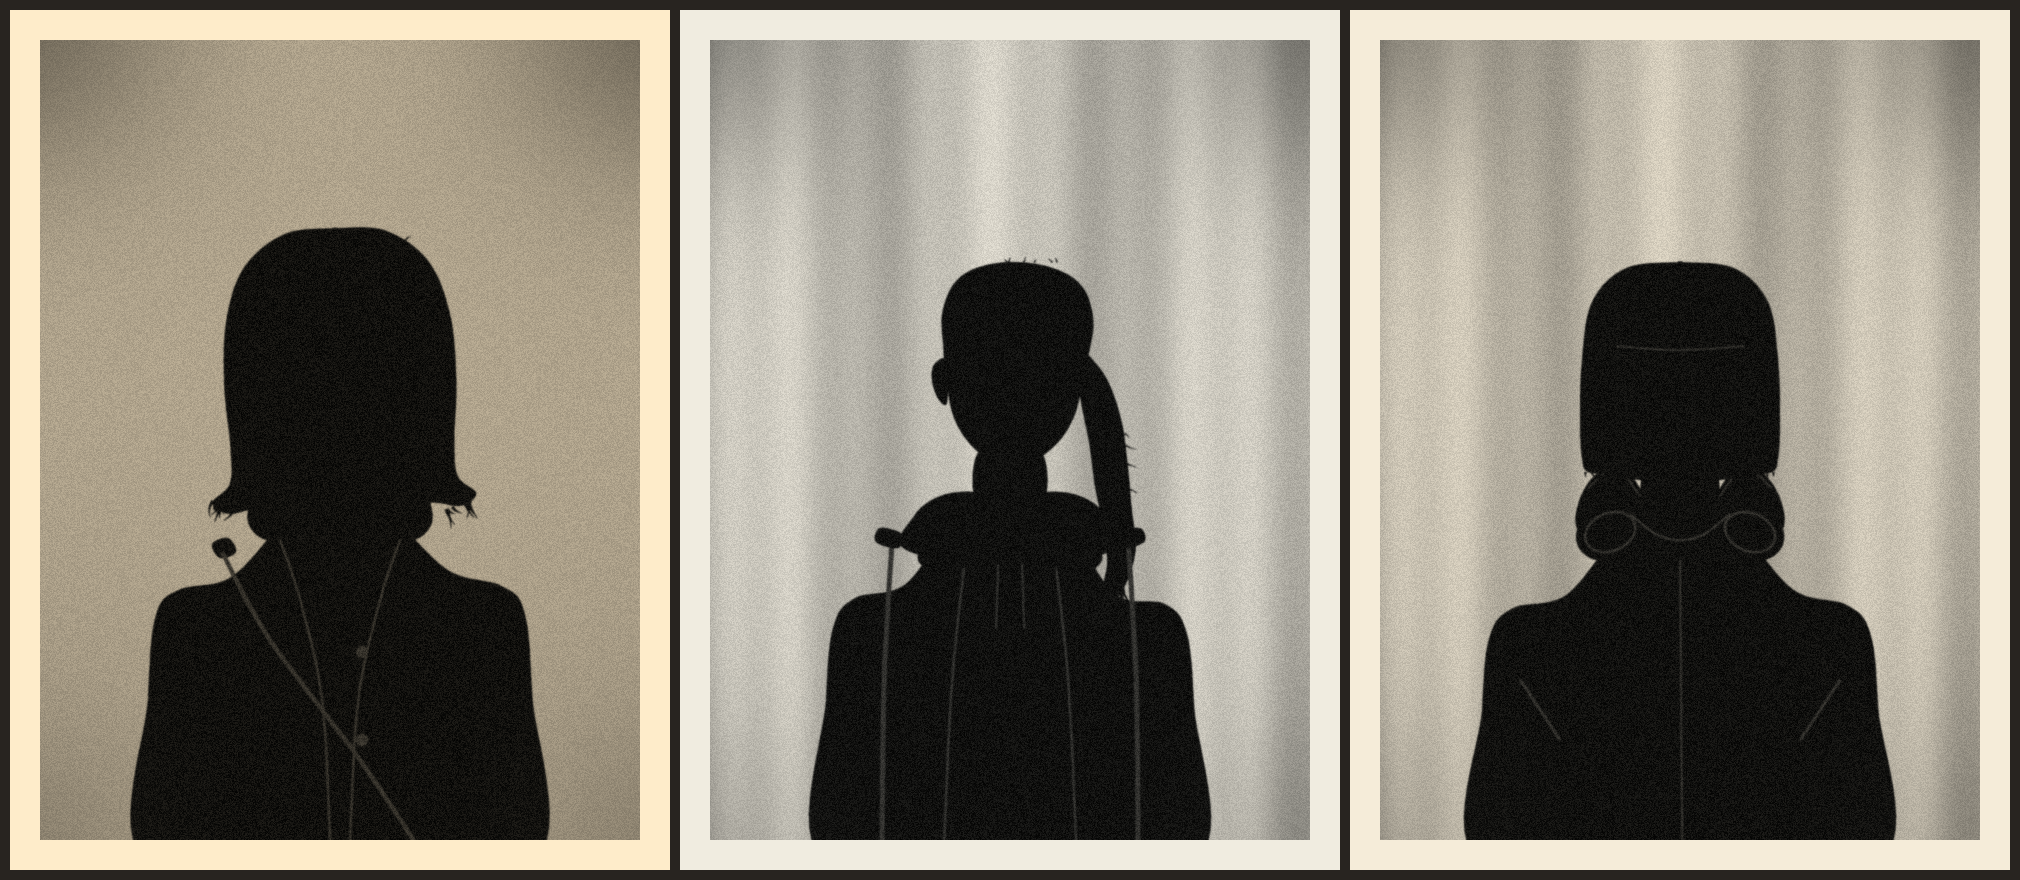
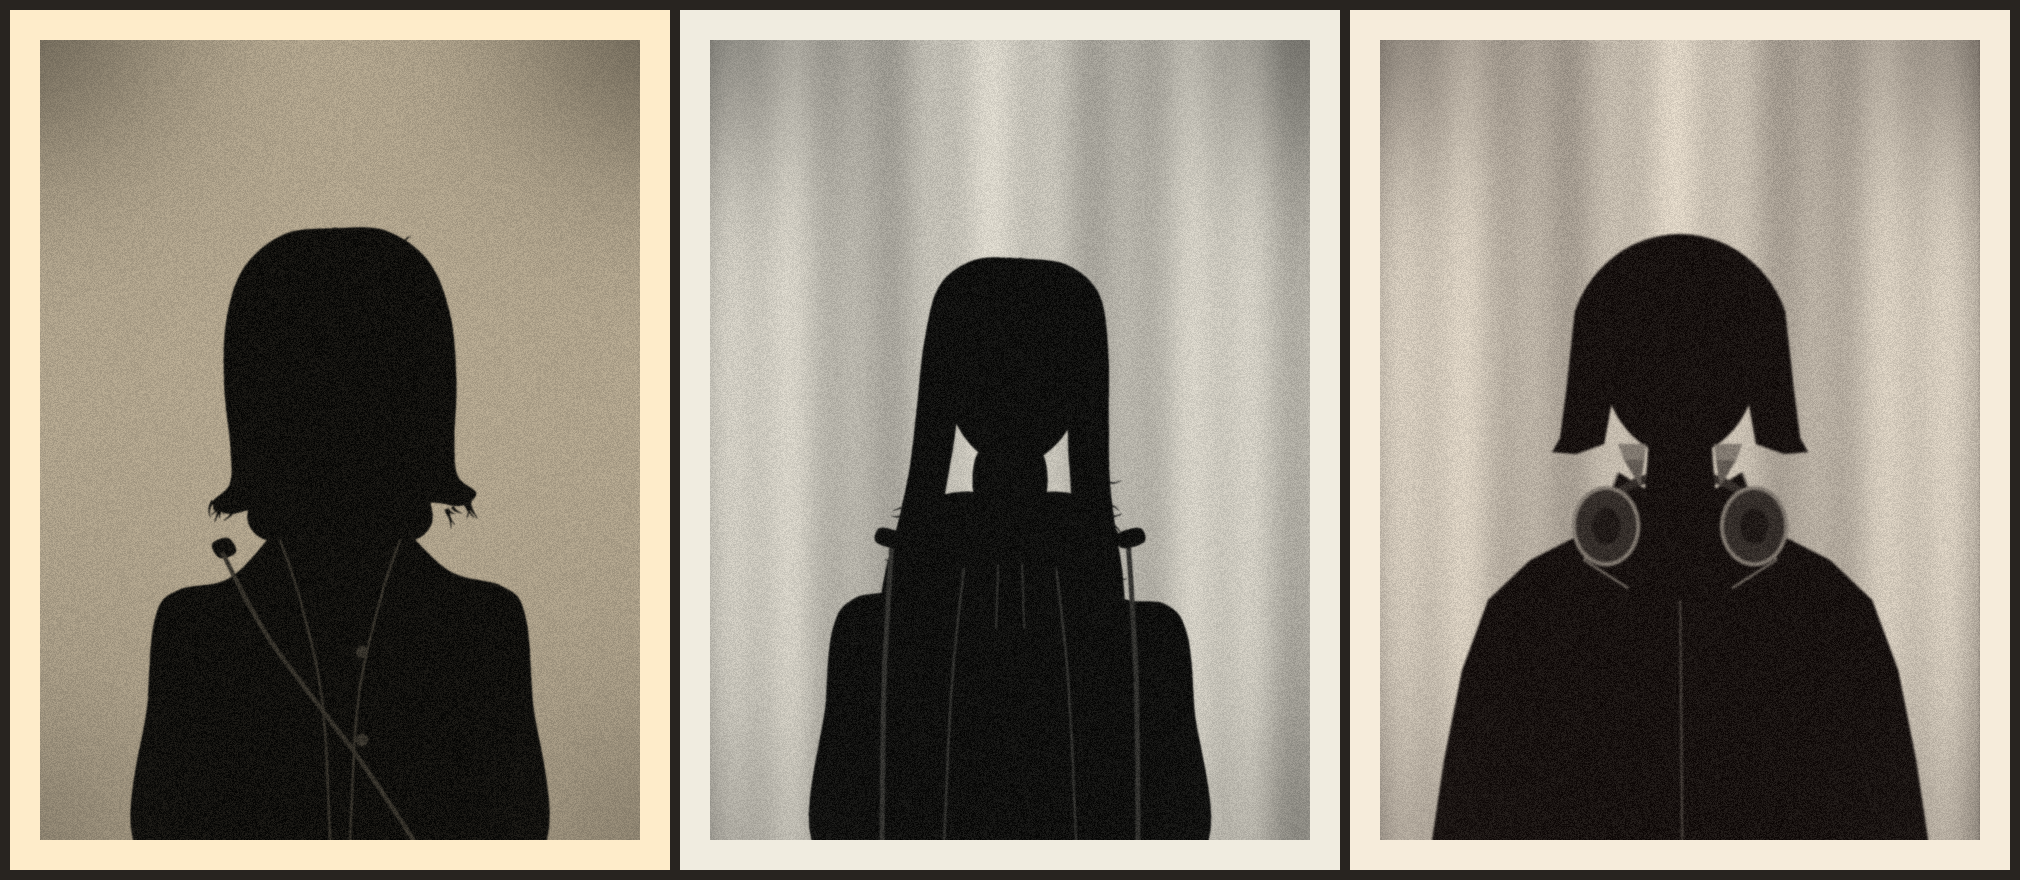
Silhouettes: Cas with long hair down; Bug back to the original rough

diff --git a/RESEARCH_PROJECT_1/tools/make_silhouettes.py b/RESEARCH_PROJECT_1/tools/make_silhouettes.py
@@ -192,9 +192,8 @@ def eileen():
 
 
 def cas():
-    """2001: leaning in a little, head tipped. Hair pulled back smooth into a HIGH ponytail (reference photo
-    from the user): a lifted crown, ears showing, the tail only seen behind her right side below the ear,
-    hanging wavy past the jaw to the collarbone with loose ends.
+    """2001: leaning in a little, head tipped. Long hair worn down (user, 2026-11-17: the ponytail versions
+    didn't work), parted in the middle, falling past her shoulders.
     Ears showing. A hoodie whose hood bunches up round the back of her neck, an open flannel over it,
     backpack straps over both shoulders."""
     rng = random.Random(22)
@@ -207,24 +206,24 @@ def cas():
              (cx + 70, 456), (cx + 96, 476), (cx + 104, 510), (cx, 528)])                       # the hood, lower
     fill(d, [(cx - 30, 470), (cx - 30, 410), (cx + 30, 410), (cx + 30, 470)])                      # neck
     tilt = 3
-    # the tail first, so it's BEHIND the head (user's reference, 2026-11-17): from the front a high ponytail
-    # barely shows over the top; it comes into view behind the right side of the head below the ear and
-    # hangs past the jaw and neck to the collarbone, wavy, a little background showing between it and the neck
-    tail = [(cx + 56, top + 70), (cx + 88, top + 96), (cx + 108, top + 140), (cx + 118, top + 190), (cx + 124, top + 232),
-            (cx + 130, top + 268), (cx + 124, top + 300), (cx + 112, top + 322), (cx + 100, top + 312),
-            (cx + 102, top + 284), (cx + 96, top + 248), (cx + 86, top + 210), (cx + 78, top + 168), (cx + 66, top + 120)]
-    fill(d, turn(tail, cx, chin, tilt))
-    strands(d, turn([(cx + 100, top + 314), (cx + 120, top + 310)], cx, chin, tilt), (0.1, 1), 9, 22, rng, width=2.2, spread=0.5)
-    strands(d, turn([(cx + 112, top + 150), (cx + 128, top + 270)], cx, chin, tilt), (1, 0.3), 5, 14, rng, width=1.2, spread=0.6)
+    # long hair worn down (user, 2026-11-17: no ponytail): parted in the middle, over the ears, falling
+    # straight past the jaw and in front of the shoulders to the chest; background shows in the two
+    # triangles between the hair and the neck under the jaw
+    hair_l = [(cx, top - 14), (cx - 46, top - 10), (cx - 80, top + 18), (cx - 92, top + 74), (cx - 96, top + 140),
+              (cx - 100, top + 200), (cx - 108, top + 252), (cx - 118, top + 300), (cx - 124, top + 360),
+              (cx - 120, top + 420), (cx - 86, top + 430),                       # the ends, over the chest
+              (cx - 78, top + 360), (cx - 70, top + 290), (cx - 64, top + 230),  # its inner edge, up past the neck
+              (cx - 58, top + 180), (cx - 52, top + 130), (cx - 30, top + 60), (cx - 6, top + 34)]   # to the parting
+    hair = hair_l + [(2 * cx - x, y - (4 if y > top + 250 else 0)) for x, y in reversed(hair_l)]
     hd = turn(head_outline(cx, top, chin, hw), cx, chin, tilt)
     fill(d, hd)
-    for s_ in (-1, 1):                                                                             # ears, about eye level
-        ex, ey = turn([(cx + s_ * hw * 0.95, top + 92)], cx, chin, tilt)[0]
-        fill(d, [(ex, ey), (ex + s_ * 13, ey + 4), (ex + s_ * 15, ey + 20), (ex + s_ * 9, ey + 38), (ex, ey + 42)])
-    # hair pulled back smooth and tight: the skull's outline a touch bigger, lifted a little on top
-    cap = head_outline(cx, top - 10, chin - 30, hw + 4)                # the skull plus the hair's thickness
-    fill(d, turn(cap, cx, chin, tilt))
-    strands(d, turn([(cx - 40, top - 8), (cx + 40, top - 12)], cx, chin, tilt), (0, -1), 6, 7, rng, width=1.2, spread=1.1)
+    fill(d, turn(hair, cx, chin, tilt))
+    for s_ in (-1, 1):                                                     # loose strands at the ends and sides
+        ends = turn([(cx + s_ * 122, top + 418), (cx + s_ * 88, top + 428)], cx, chin, tilt)
+        strands(d, ends, (s_ * 0.1, 1), 12, 24, rng, width=2.2, spread=0.35)
+        side = turn([(cx + s_ * 100, top + 200), (cx + s_ * 122, top + 340)], cx, chin, tilt)
+        strands(d, side, (s_ * 1, 0.4), 5, 12, rng, width=1.2, spread=0.5)
+    strands(d, turn([(cx - 40, top - 8), (cx + 40, top - 8)], cx, chin, tilt), (0, -1), 6, 7, rng, width=1.2, spread=1.1)
     # flannel collar points lying open over the hood, the flannel's open front, backpack straps
     for s in (-1, 1):
         fill(d, [(cx + s * 40, 506), (cx + s * 74, 494), (cx + s * 92, 520), (cx + s * 60, 540)])
@@ -237,47 +236,11 @@ def cas():
 
 
 def bug():
-    """2002: slouched, hands in pockets so the shoulders sit up a little. A short bob with blunt bangs,
-    the sides falling to the jaw. A short neck. An oversized jacket with dropped shoulders and the collar
-    popped: two stiff points standing up either side of the neck. Headphones round her neck: the band
-    behind, two small cups tipped toward each other, sticking out past the collar."""
-    rng = random.Random(33)
-    img = backdrop(170, curtain=True)
-    d = ImageDraw.Draw(img)
-    cx, top, chin, hw = 300, 240, 430, 72
-    shoulders(d, cx, 470, 32, 540, 182, tilt=3, drop=20)
-    fill(d, [(cx - 32, 470), (cx - 31, 420), (cx + 31, 420), (cx + 32, 470)])                      # short neck
-    # the popped collar: stiff points standing up and flaring out, a gap of background to the jaw
-    for s in (-1, 1):
-        fill(d, [(cx + s * 34, 486), (cx + s * 38, 452), (cx + s * 64, 424), (cx + s * 94, 446), (cx + s * 104, 486),
-                 (cx + s * 78, 506)])
-        line(d, [(cx + s * 40, 456), (cx + s * 64, 428), (cx + s * 92, 448)], 2)
-    fill(d, head_outline(cx, top, chin, hw, ears=False))
-    # the bob: rounded over the crown, blunt bangs across the brow, the sides straight down to the jaw
-    # and cut blunt there, flicking in a touch
-    bob_l = [(cx, top - 18), (cx - 54, top - 12), (cx - 88, top + 22), (cx - 98, top + 80), (cx - 100, top + 140),
-             (cx - 98, top + 178), (cx - 92, top + 192), (cx - 66, top + 194), (cx - 40, top + 200)]   # solid to the neck
-    bob = bob_l + [(2 * cx - x, y) for x, y in reversed(bob_l)]
-    fill(d, bob)
-    strands(d, [(cx - 96, top + 192), (cx - 70, top + 192)], (0, 1), 8, 9, rng, width=2.0, spread=0.2)
-    strands(d, [(cx + 70, top + 192), (cx + 96, top + 192)], (0, 1), 8, 9, rng, width=2.0, spread=0.2)
-    line(d, [(cx - 64, top + 66), (cx, top + 70), (cx + 64, top + 66)], 2)                          # the bangs' edge
-    # headphones: band behind the neck, cups tipped in, sticking out past the collar on both sides
-    for s, tl in ((-1, 22), (1, -22)):
-        ccx, ccy = cx + s * 70, 492
-        cup = Image.new("L", (90 * S, 80 * S), 0)
-        ImageDraw.Draw(cup).ellipse([10 * S, 12 * S, 80 * S, 68 * S], fill=255)
-        cup = cup.rotate(tl, resample=Image.BICUBIC)
-        img.paste(INK, (int((ccx - 45) * S), int((ccy - 40) * S)), cup)
-        rim = Image.new("L", cup.size, 0)
-        ImageDraw.Draw(rim).ellipse([18 * S, 20 * S, 72 * S, 60 * S], outline=255, width=int(2.5 * S))
-        rim = rim.rotate(tl, resample=Image.BICUBIC)
-        img.paste(LITE, (int((ccx - 45) * S), int((ccy - 40) * S)), rim)
-    line(d, [(cx - 50, 474), (cx - 24, 494), (cx, 500), (cx + 24, 494), (cx + 50, 474)], 2.5)
-    line(d, [(cx, 520), (cx + 2, 800)], 2)                                                          # the zip
-    for s in (-1, 1):
-        line(d, [(cx + s * 160, 640), (cx + s * 120, 700)], 3)                                      # pocket flaps
-    return finish(img, "sil_bug.png", (1.04, 1.0, 0.92), 3)
+    """Bug: the ORIGINAL rough from 2026-11-15 (tools/make_bug_rough.py), unchanged. The user compared it
+    with the redrawn versions on 2026-11-17 and liked the original more."""
+    out = Image.open(os.path.join(PROCESS, "2026-11-15_bug_silhouette_rough.png")).convert("RGB")
+    out.save(os.path.join(EXPORT, "sil_bug.png"))
+    return out
 
 
 if __name__ == "__main__":

diff --git a/RESEARCH_PROJECT_1/STORY.md b/RESEARCH_PROJECT_1/STORY.md
@@ -60,6 +60,9 @@ payphone, a MISSING poster: yours (Bug's photo-booth silhouette; brunette, 5'4",
 - No recorded voice: everything is read on paper.
 - Messages stay first person (Bug talking).
 - All people-images are silhouettes.
+  Their looks (tools/make_silhouettes.py): Eileen = shoulder-length 90s hair, long wool coat collar up, handbag strap;
+  Cas = long hair worn down, parted in the middle (no ponytail, user 2026-11-17), hoodie + open flannel, backpack straps;
+  Bug = short bob with bangs, oversized jacket, headphones round her neck (the original 2026-11-15 rough).
 - No tagline.
 - Cabin 2 stays as is (2026-11-16): an optional side room, Cas's camp (bunk, backpack, stove,
   table with a torn page). Not part of the ending.

diff --git a/RESEARCH_PROJECT_1/process/README.md b/RESEARCH_PROJECT_1/process/README.md
@@ -237,3 +237,8 @@ Cas redrawn from the user's ponytail reference photo: from the front a high pony
 the crown is smooth and lifted, the ears show, and the tail comes into view behind her right side below
 the ear and hangs past the jaw to the collarbone, with loose ends. The head now has a round skull dome
 (shared by all three silhouettes).
+
+## 2026-11-17_cas_silhouette_hair_down.png
+Cas with long hair worn down, parted in the middle, falling past her shoulders (user: the ponytail
+versions still looked bad). Bug's silhouette goes back to the original 2026-11-15 rough, which the user
+liked more than the redraws.
